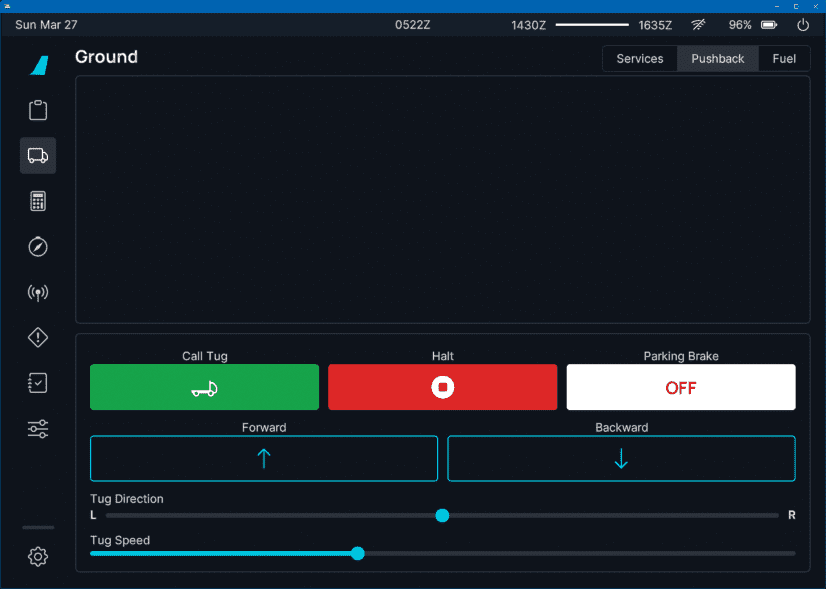
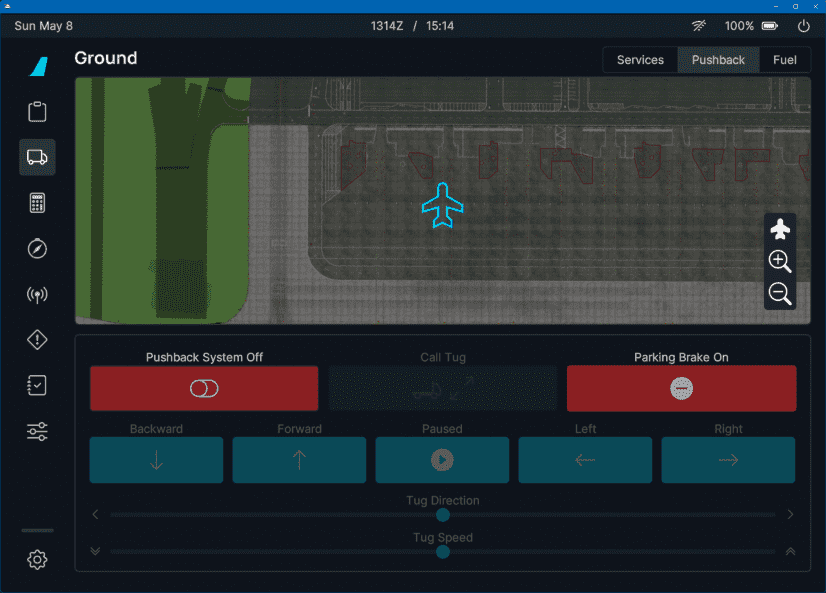
Updated pushback page

diff --git a/docs/fbw-a32nx/feature-guides/flyPados3/ground.md b/docs/fbw-a32nx/feature-guides/flyPados3/ground.md
@@ -59,6 +59,15 @@ door and automatically closes it after it has virtually supplied the aircraft.
 
 ## Pushback
 
+{--
+
+The flyPadOS 3 pushback system is in general not compatible with other pushback add-ons as they all use 
+the same sim variables and will conflict with each other.
+
+See [Pushback System On/Off](#pushback-system-onoff).
+
+--}
+
 <div style="position: relative;">
     <img src="/fbw-a32nx/assets/flypados3/flypad-pushback.png" style="width: 100%; height: auto;" loading="lazy">
     <a href="../dashboard/">   <div class="imagemap" style="position: absolute; left: 1.7%; top:  6.9%; width: 5.8%; height: 7.0%;"><span class="imagemapname">Dashboard</span></div></a>
@@ -74,15 +83,108 @@ door and automatically closes it after it has virtually supplied the aircraft.
     <span class="imagesub">Click on the menu icons in this image to see other flyPad pages.</span>
 </div>
 
-!!! bug "TODO"
+The flyPad pushback system provides comfortable pushback from within the cockpit using buttons or controllers and the 
+built-in map.  
 
-### Call Tug
+### Pushback System On/Off
 
-Calls the pushback tug to be connected to the aircraft. The button will become green if the pushback tug is 
-connected to the aircraft. At some airports the pushback tug might not be visible (MSFS issue) but it will still be 
-possible to push back the aircraft.
+As pushback add-ons all use the same sim variables to control and move the aircraft during pushback the flyPad 
+pushback system and these add-ons can usually not be used at the same time. Because of this the flyPad pushback system 
+can be disabled completely to avoid any interference with other pushback add-ons.
 
-To disconnect the pushback tug press this button again and the button turns blue again.
+!!! block ""
+    ![img.png](../../assets/flypados3/flypad-pushback-system-off.png){align=center width=49% loading=lazy}
+    ![img_1.png](../../assets/flypados3/flypad-pushback-system-on.png){align=center width=49% loading=lazy}
+
+A warning message will appear if you enable the system to remind users of these potential incompatibilities.  
+
+External add-ons can recognize the flyPad pushback system and also deactivate it if they choose to do so by 
+reading/setting this LVAR variable: `L:A32NX_PUSHBACK_SYSTEM_ENABLED`.
+
+### Call/Release Tug
+
+Pressing this button will call and attach the pushback tug or release it in case it was already attached. 
+
+!!! warning "Tug Animation"
+    From the point of view of the aircraft the tug appears to be immediately attached. This is a sim issue as the tug's 
+    animation is not in sync with the tug-attached signal to the aircraft. This also allows pushback immediately 
+    although the visual tug is not yet connected to the aircraft.
+    <p />
+    To overcome this limitation the sim's pushback tug model would need to be changed which would conflict with 
+    other pushback add-ons which use this method. We have therefore chosen not to implement this at this time.
+
+When releasing the tug the button will stay amber until the pushback pin is removed and the ECAM memo "NW STRG DISC" 
+has disappeared (~15sec). The aircraft cannot be steered with the nose wheel steering pin installed. 
+
+!!! block ""
+    ![img.png](../../assets/flypados3/flypad-pushback-tugcall.png){align=center width=32% loading=lazy}
+    ![img_2.png](../../assets/flypados3/flypad-pushback-tugwait.png){align=center width=32% loading=lazy}
+    ![img_1.png](../../assets/flypados3/flypad-pushback-tugrelease.png){align=center width=32% loading=lazy}
+
+### Parking Brake
+
+Convenience button to set or release the parking brake while using the pushback system.  
+
+### Forward/Backward
+
+The forward and backward buttons control the speed of the pushback tug. 
+
+The `Forward` button changes the speed in forward direction (increase speed when already moving forwards, decrease speed 
+when moving backwards).
+
+The `Backward`button is vice versa. 
+
+### Pause Movement
+
+Pauses all movement and resets speed and direction to zero. 
+
+### Left/Right
+
+The `Left` and `Right` buttons control the direction of the tug-aircraft movement. 
+
+`Left` changes the direction towards the left (more left when already in a left turn, less right when in a right turn). 
+
+`Right` is vice versa. 
+
+### Tug Direction Slider
+
+The tug direction slider can be dragged with the mouse to quickly set the desired direction.
+
+### Tug Speed Slider
+
+The tug speed slider can be dragged with the mouse to quickly set the desired speed.
+
+### Using Rudder and Elevator Control for Pushback
+
+You can use the standard sim rudder axis control for steering left and right.
+
+You can use the standard elevator axis (pitch) for controlling the speed of the pushback tug. 
+
+### Map
+
+The pushback map allows to execute the pushback without leaving the cockpit view. It depicts the airport and ground 
+markings so that a precise pushback can be accomplished. 
+
+!!! block ""
+    ![img_5.png](../../assets/flypados3/flypad-pushback-mapzoom.png){align=left width=5% loading=lazy}    
+    <p />
+    The map allows to zoom in and out as require using the zoom buttons. 
+
+
+!!! block ""
+    ![img_7.png](../../assets/flypados3/flypad-pushback-map-aircraft-icon-filled.png){align=left width=5% loading=lazy} 
+    ![img_8.png](../../assets/flypados3/flypad-pushback-map-aircraft-icon-outlined.png){align=left width=5% loading=lazy}
+    <p />
+    If the aircraft symbol is filled the map is in centered aircraft mode and moves with the aircraft movement. 
+    If it is outlined the map is fixed and the aircraft symbol is moving.
+    <p />
+    The map can also be dragged and moved with the mouse. To reset the map to be centered on the aircraft press the 
+    aircraft symbol.
+
+!!! block "" 
+    ![img_6.png](../../assets/flypados3/flypad-pushback-map-turn-prediction.png){align=left width=15% loading=lazy}
+    <p />
+    The map also features a turn prediction indicator providing a visual aid while turning. 
 
 ## Fuel Page
 
